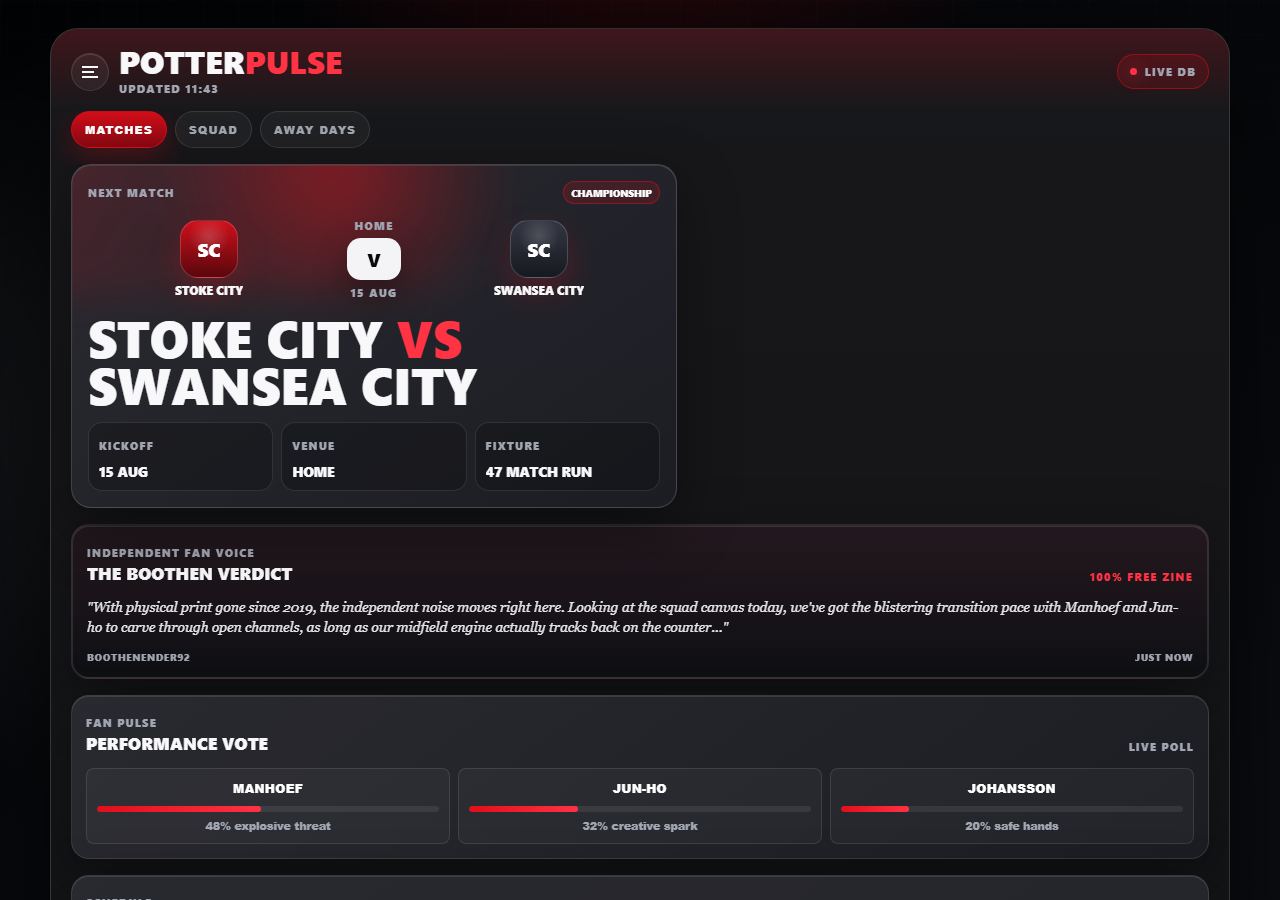
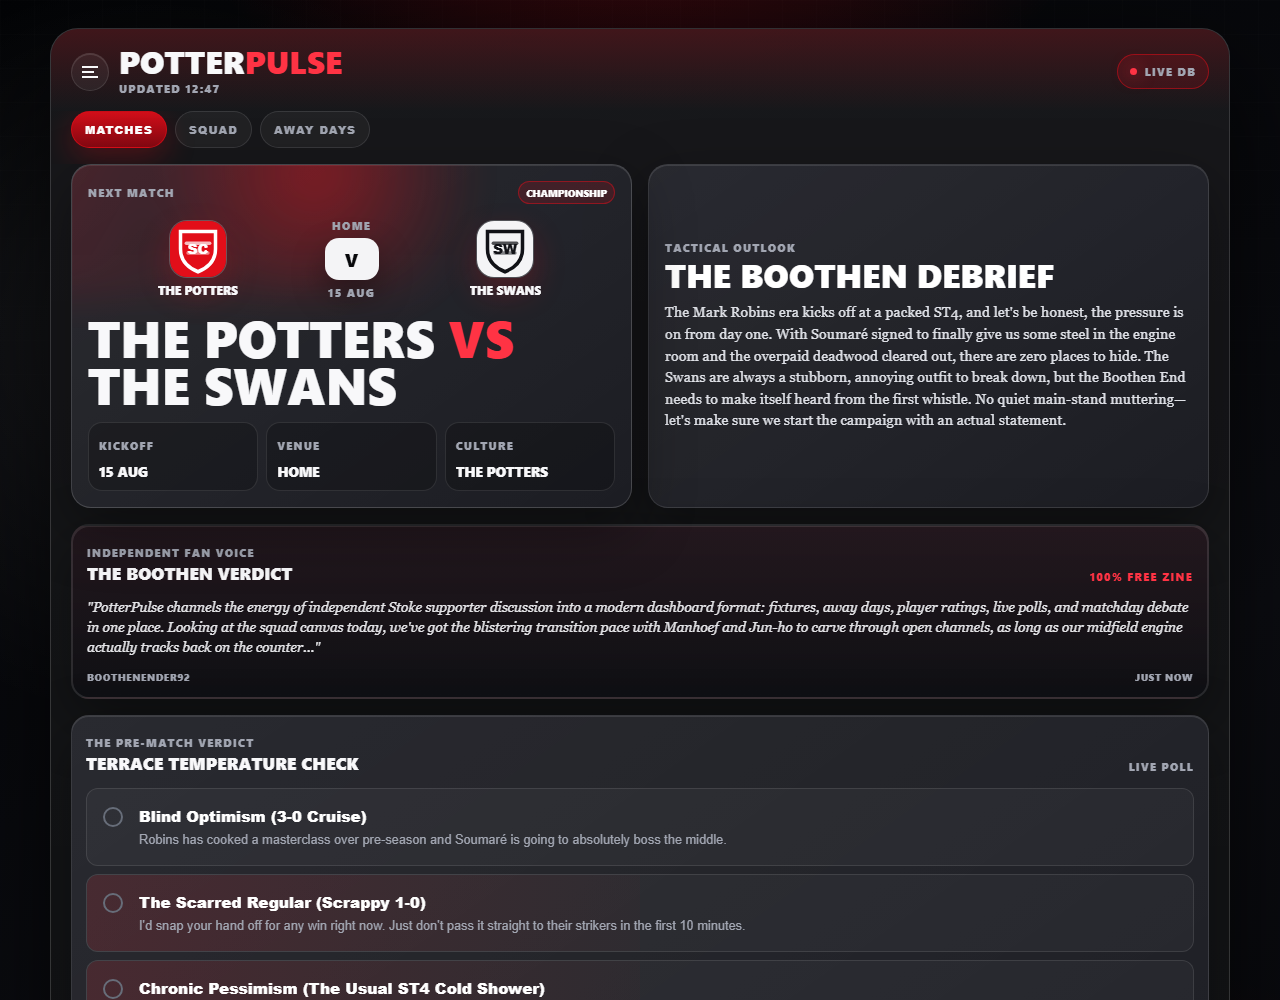
Refresh README screenshot thumbnails

diff --git a/README.md b/README.md
@@ -50,13 +50,18 @@ PotterPulse is an interactive, premium supporter fanzine and fan portal concept 
 
 ---
 
-## 📸 Screenshots
+## Screenshots
 
-- **SVG Mood Donut Chart**: [Mood Chart Screenshot](file:///C:/Users/Wilshaw/.gemini/antigravity/brain/7e7e021c-2c47-45b6-8f99-345d8db273ea/visual-donut-chart.png)
-- **Terrace Player Ratings**: [Ratings Averages & POTM Crown](file:///C:/Users/Wilshaw/.gemini/antigravity/brain/7e7e021c-2c47-45b6-8f99-345d8db273ea/player-ratings-view.png)
-- **Interactive Range Sliders**: [Ratings Form Sliders](file:///C:/Users/Wilshaw/.gemini/antigravity/brain/7e7e021c-2c47-45b6-8f99-345d8db273ea/player-ratings-sliders.png)
-- **Away Day Journey Planner**: [Transit Planner Calculations](file:///C:/Users/Wilshaw/.gemini/antigravity/brain/7e7e021c-2c47-45b6-8f99-345d8db273ea/away-journey-planner.png)
-- **Terrace Threads (Forum Wire)**: [Categorized Forum Feed](file:///C:/Users/Wilshaw/.gemini/antigravity/brain/7e7e021c-2c47-45b6-8f99-345d8db273ea/dynamic-forum-board.png)
+Fresh verification screenshots are stored in the repository so GitHub renders them as thumbnails instead of local machine links.
+
+| Feature | Preview |
+| --- | --- |
+| SVG Mood Donut Chart | <img src="docs/screenshots/mood-donut-chart.png" alt="Terrace Temperature Check mood donut chart" width="260" /> |
+| Terrace Player Ratings | <img src="docs/screenshots/player-ratings-view.png" alt="Terrace player ratings averages and POTM crown" width="260" /> |
+| Interactive Range Sliders | <img src="docs/screenshots/player-ratings-sliders.png" alt="Player ratings range slider form" width="260" /> |
+| Away Day Journey Planner | <img src="docs/screenshots/away-journey-planner.png" alt="Away day journey planner route calculation" width="260" /> |
+| Terrace Threads Feed | <img src="docs/screenshots/terrace-threads-feed.png" alt="Terrace Threads categorized forum feed" width="260" /> |
+| Squad Pitch + Terrace Threads | <img src="docs/screenshots/squad-pitch-terrace-threads.png" alt="Isometric squad pitch beside Terrace Threads feed" width="260" /> |
 
 ---
 